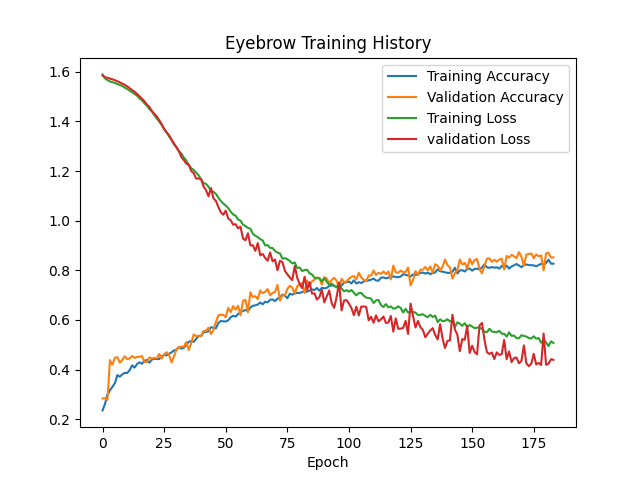
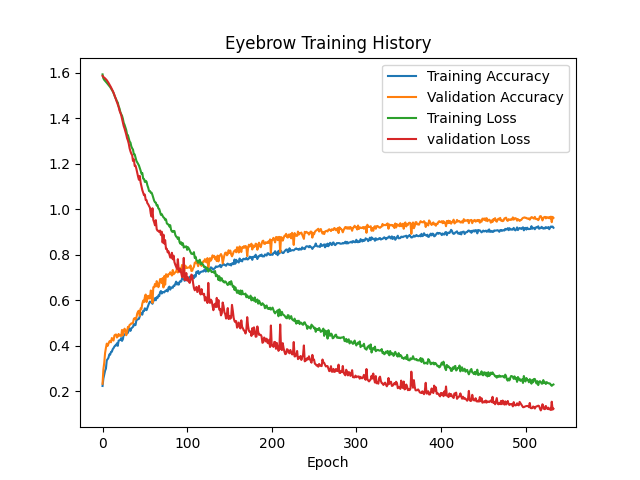
Trained with dropout

diff --git a/faceCNN/faceTrain.py b/faceCNN/faceTrain.py
@@ -49,10 +49,12 @@ model.add(Conv2D(32, kernel_size = (3, 3), input_shape=input_shape,activation='r
 model.add(Conv2D(64, (3, 3), activation = 'relu')) 
 model.add(Conv2D(128, (3, 3), activation = 'relu')) 
 model.add(MaxPooling2D(pool_size = (2,2))) # 2x2 pooling, probably don't need 
-model.add(Dropout(0.1)) 
+model.add(Dropout(0.25)) 
 model.add(Flatten()) 
 model.add(Dense(1024, activation = 'relu')) 
+model.add(Dropout(0.15)) 
 model.add(Dense(512, activation = 'relu')) 
+model.add(Dropout(0.05)) 
 model.add(Dense(5, activation = 'softmax'))
 
 model.compile(
@@ -65,7 +67,7 @@ model.compile(
 callback = keras.callbacks.EarlyStopping(
     monitor="val_loss",
     min_delta=0,
-    patience=10,
+    patience=15,
     verbose=0,
     mode="auto",
     baseline=None,
